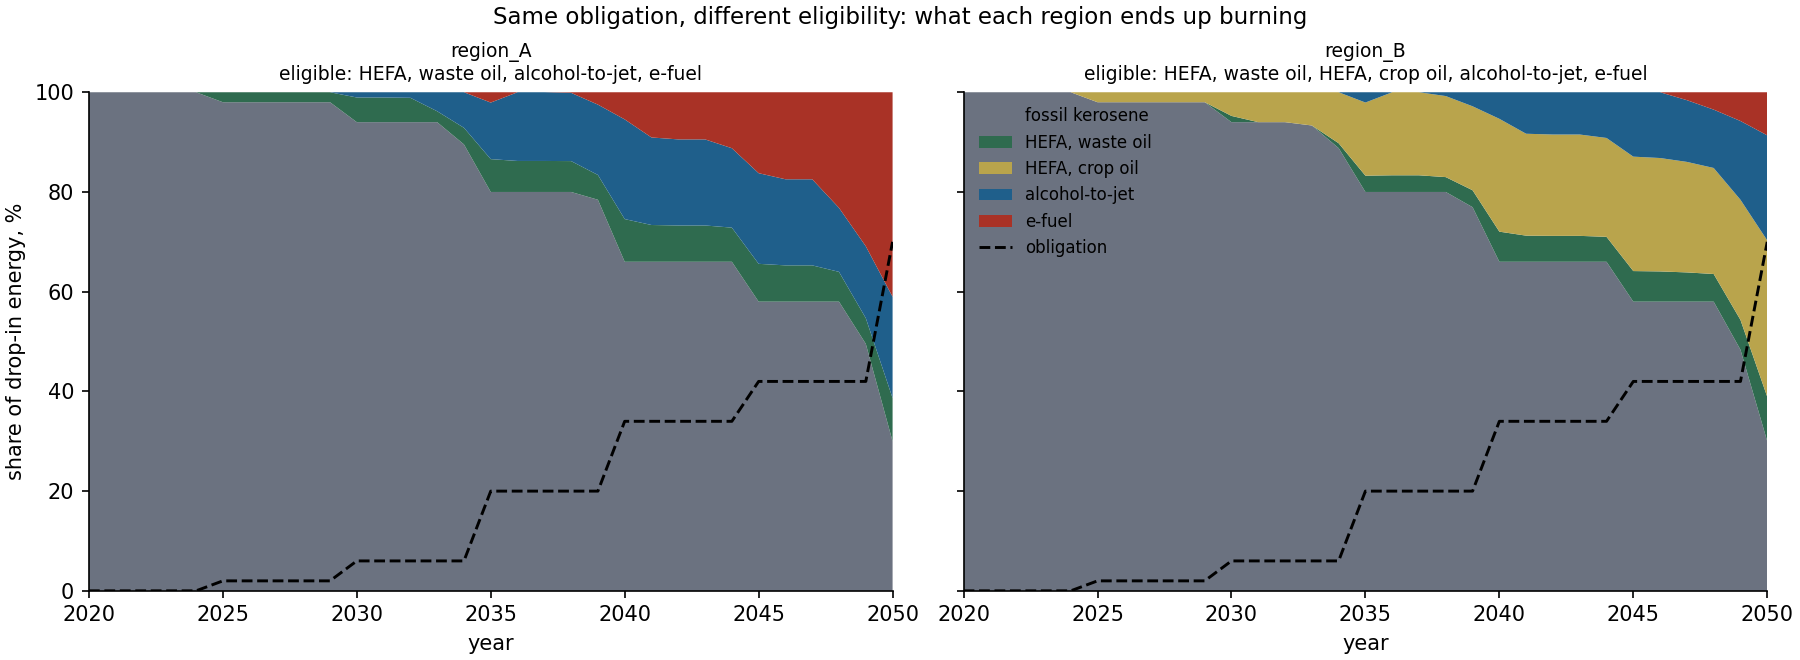
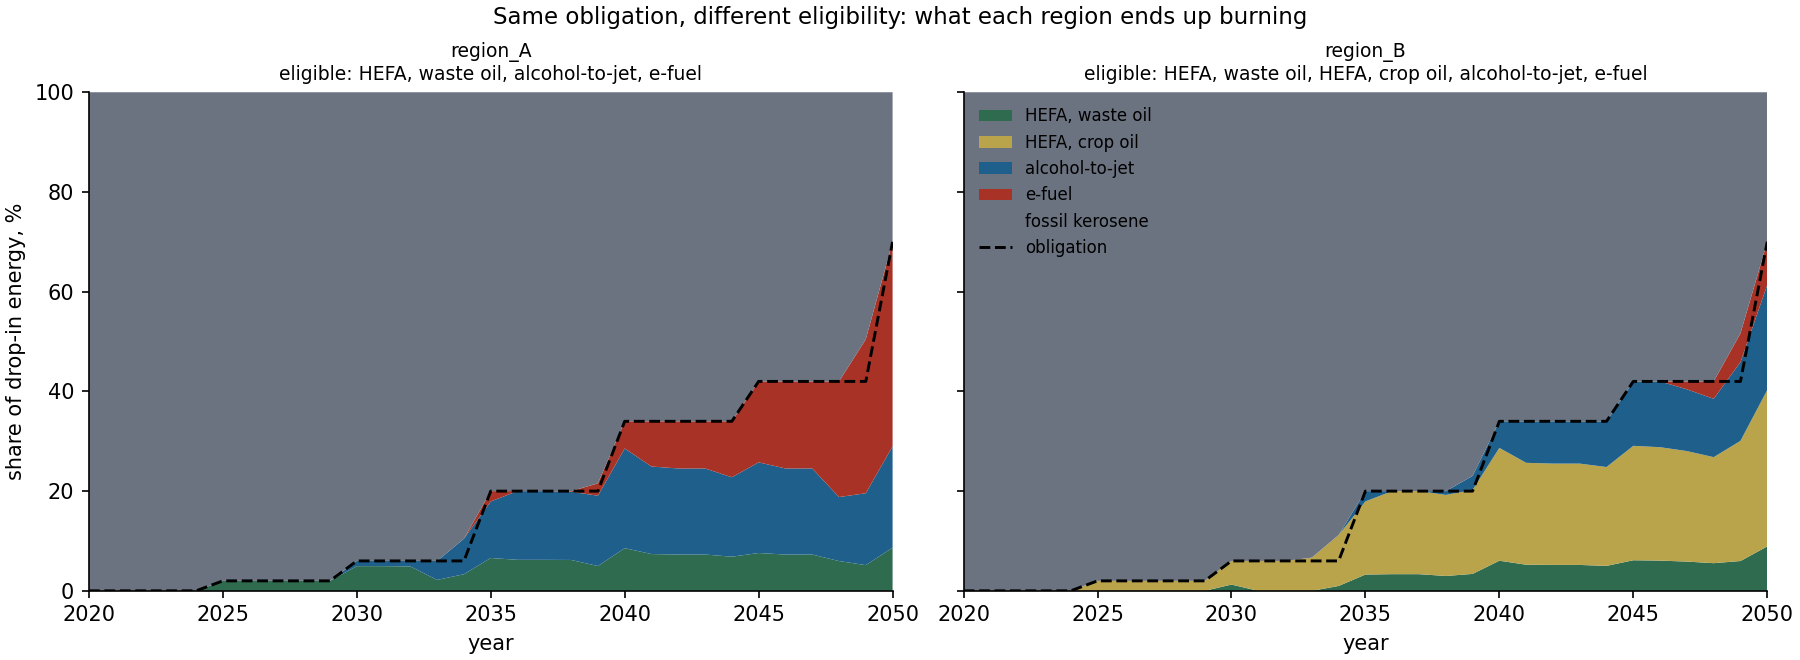
Stack the mandated fuels first, so the obligation line means something
With kerosene at the bottom the sustainable total was a floating band and the
obligation line lined up with nothing -- a reader would have compared it against
the wrong edge. Mandated fuels first puts the obligation exactly on the top edge
of the band it constrains, and the pre-building shows as colour above the line.

Changed region(s): [[0.5289, 0.1212, 0.9956, 0.9091], [0.0933, 0.1212, 0.4978, 0.9091]]

diff --git a/fuel_clearing_step1/policy_cases.py b/fuel_clearing_step1/policy_cases.py
@@ -183,11 +183,15 @@ def fuel_mix():
     figure, axes = plt.subplots(1, 2, figsize=(12.0, 4.4), constrained_layout=True, sharey=True)
     for r, (axis, region) in enumerate(zip(axes, regions)):
         shares = 100 * outputs.volume[r] / bench["demand"][r]
+        # Mandated fuels stacked FIRST, kerosene on top. With kerosene at the bottom the
+        # sustainable total is a floating band and the obligation line lines up with
+        # nothing; this way its top edge IS the obligation being met or missed.
+        order = [p for p, f in enumerate(FUELS) if f != "fossil_kerosene"] + [RESIDUAL]
         axis.stackplot(
             years,
-            *[shares[p] for p in range(len(FUELS))],
-            colors=[COLOURS[f] for f in FUELS],
-            labels=[LABELS[f] for f in FUELS],
+            *[shares[p] for p in order],
+            colors=[COLOURS[FUELS[p]] for p in order],
+            labels=[LABELS[FUELS[p]] for p in order],
         )
         axis.plot(
             years,
